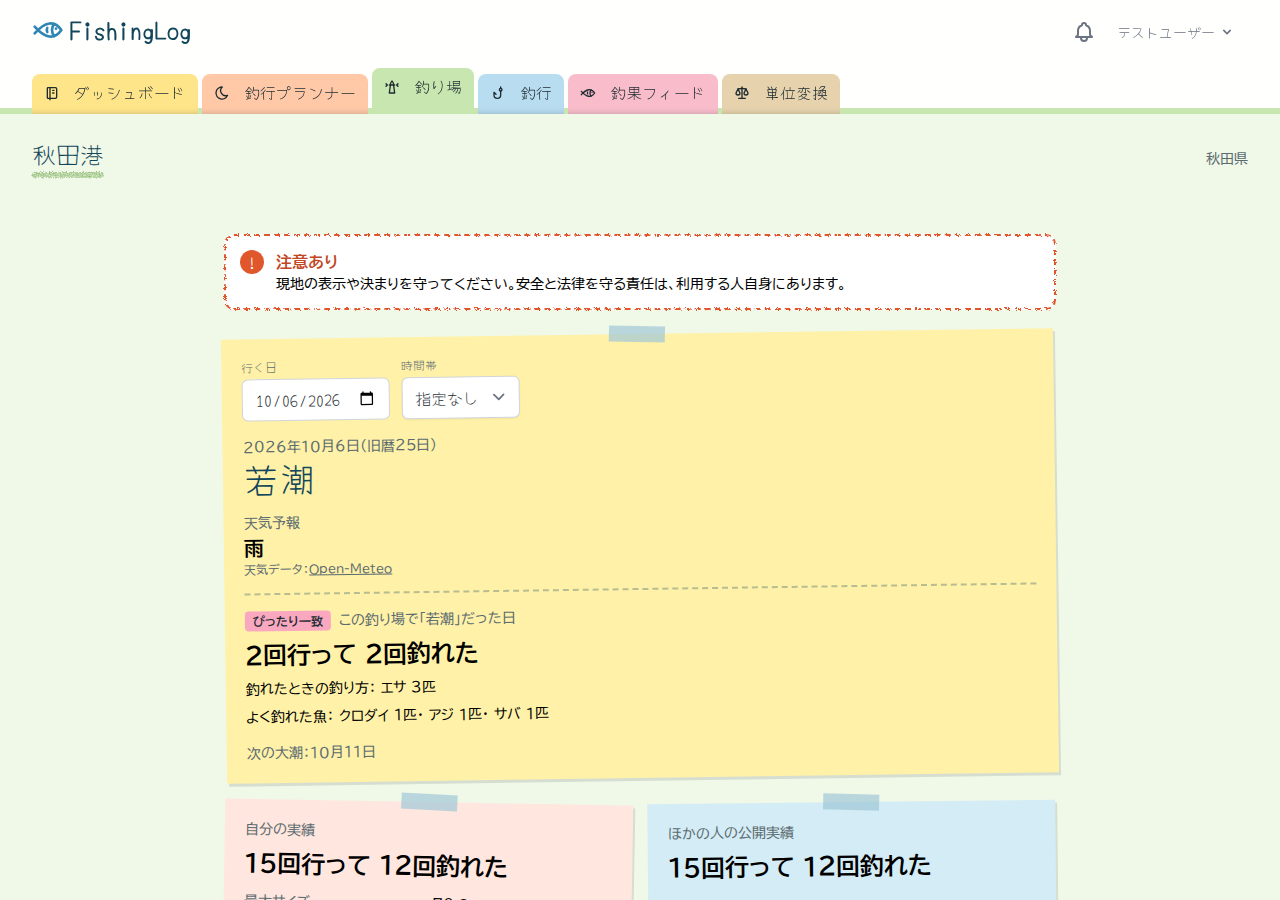
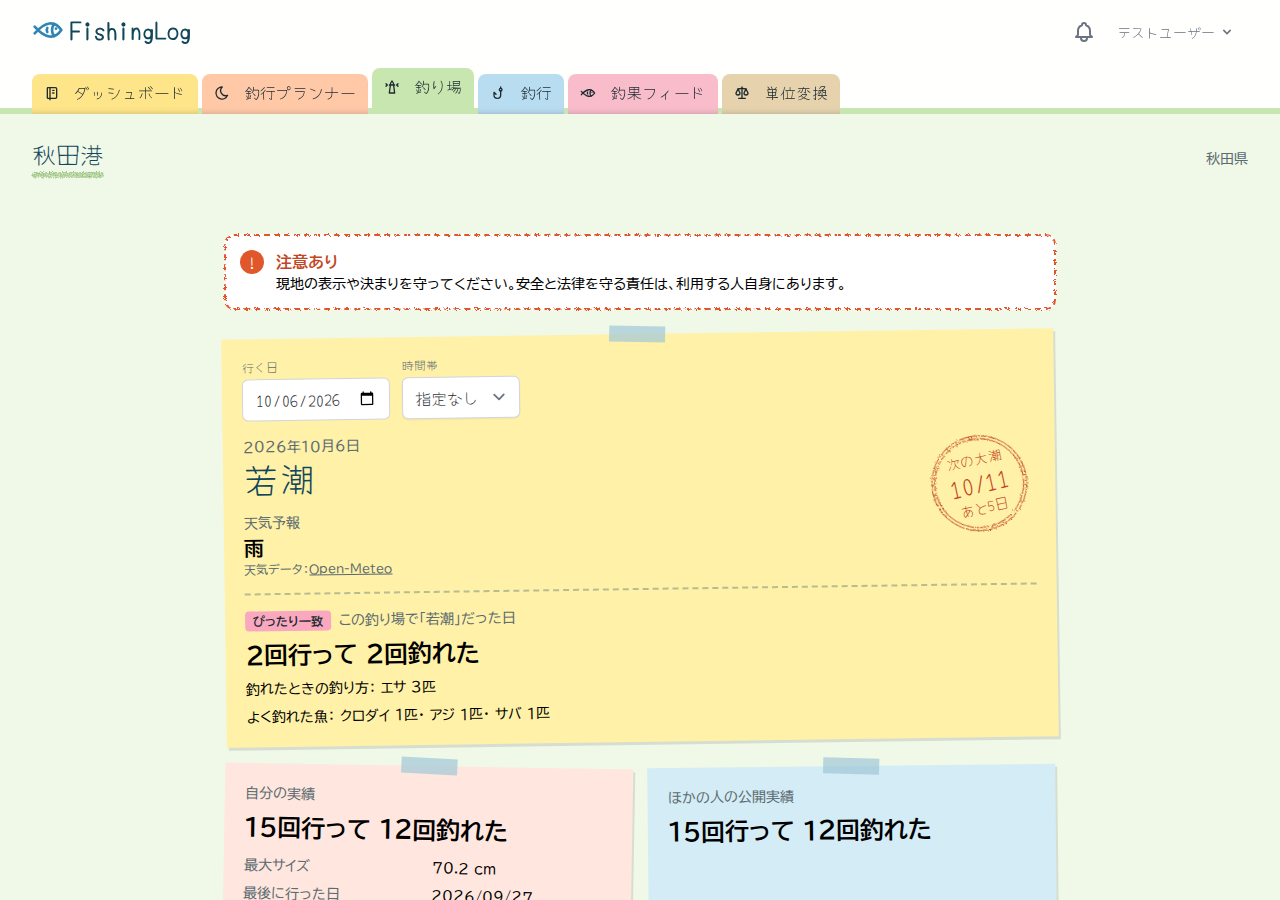
docs: 旧暦と次の大潮で決めたことを記録し、README の画像を撮り直す (#130)

diff --git a/CLAUDE.md b/CLAUDE.md
@@ -86,7 +86,7 @@
 
 ## 今どこまでできているか（2026-10-06）
 
-**フェーズ1・フェーズ2は完了。** フェーズ3は条件検索（FN-03、#86）・CSV 出力（FN-04、#88）・継続カウンタと気づきカード（FN-10、#90）が完了。報告と管理画面（NF-04、#92・#94）が完了。見た目も土台（#96）・カルテ（#98）・ダッシュボードとプランナー（#100）・残りの画面（#102）でひととおり完了。テストは 284 件すべて成功。README も書き直した（#104）。シーダーの釣り場を実在の港と湖にした（#106）。ナビをインデックス付箋にした（#108）。注意のしるしと1位のマーカーを直した（#110）。魚や釣り具のアイコンと落書きを入れた（#112）。README に画面の画像を入れた（#114）。使い方のページを作った（#116）。利用規約とプライバシーポリシーを書き直し、退会で写真も消すようにした（#118）。エラーページ・タブのアイコン・初期のテストの片付け（#120）。単位変換ツール（#122）。せまい画面の付箋とスマホのメニューの並び（#124）。README の画面の画像を撮り直し、単位変換を足した。README に「記録が少ないうちも使い続けられる工夫」の節を足した（#126）。提出前の総点検で見つけた抜けを直した：釣り場一覧の釣果数と並べ替え（`sort`＝name／last／catches、ログインした人だけ）、釣り場のメモはカルテで本人だけ（#128）。最後の Issue は #128（PR と次の番号は画面で確かめる）。
+**フェーズ1・フェーズ2は完了。** フェーズ3は条件検索（FN-03、#86）・CSV 出力（FN-04、#88）・継続カウンタと気づきカード（FN-10、#90）が完了。報告と管理画面（NF-04、#92・#94）が完了。見た目も土台（#96）・カルテ（#98）・ダッシュボードとプランナー（#100）・残りの画面（#102）でひととおり完了。テストは 285 件すべて成功。README も書き直した（#104）。シーダーの釣り場を実在の港と湖にした（#106）。ナビをインデックス付箋にした（#108）。注意のしるしと1位のマーカーを直した（#110）。魚や釣り具のアイコンと落書きを入れた（#112）。README に画面の画像を入れた（#114）。使い方のページを作った（#116）。利用規約とプライバシーポリシーを書き直し、退会で写真も消すようにした（#118）。エラーページ・タブのアイコン・初期のテストの片付け（#120）。単位変換ツール（#122）。せまい画面の付箋とスマホのメニューの並び（#124）。README の画面の画像を撮り直し、単位変換を足した。README に「記録が少ないうちも使い続けられる工夫」の節を足した（#126）。提出前の総点検で見つけた抜けを直した：釣り場一覧の釣果数と並べ替え（`sort`＝name／last／catches、ログインした人だけ）、釣り場のメモはカルテで本人だけ（#128）。プランナーとカルテから旧暦の表示を消し、カルテの次の大潮を付箋の右のスタンプにした（#130）。最後の Issue は #130（PR と次の番号は画面で確かめる）。
 
 ### フェーズ2でやったこと（決めたことは `docs/decisions.md`）
 

diff --git a/docs/decisions.md b/docs/decisions.md
@@ -204,3 +204,4 @@
 | 2026-10-06 | 釣り場一覧の釣果数と並べ替え | PG06：最後に行った日・釣行回数・釣果数を一覧表示し、最後に行った日順と釣果数順で並べ替え | 「自分の釣行 N 回・釣果 M 匹」と最後に行った日を出し、「名前順（初め）／最後に行った日順（行っていない釣り場は後ろ）／釣果数順」で並べ替えられるようにする。数えるのは自分の記録だけ。並べ替えはログインした人だけ（ゲストは名前順） | 総点検で、釣果数と並べ替えが抜けていたのが見つかったため。自分の行った釣り場やよく釣れる釣り場を、すぐ見つけられるようにするため。ゲストは自分の記録がないので、並べ替えても意味がないため |
 | 2026-10-06 | 釣り場のメモ（spots.notes）を見せる人 | テーブル定義：釣り場全体のメモ（だれに見せるかは記載なし） | カルテで、登録した本人にだけ「自分のメモ」として見せる。入力欄に「自分にだけ見えます。みんなに伝えたいことは現地情報のメモに」と書く | 本人だけが書けるのに、どこにも表示されていなかったため（総点検で見つけた）。釣行のメモも本人だけに見せているので、そろえるため。みんなに伝えたいことは、もうある現地情報のメモに書けるため |
 | 2026-10-06 | NF-06 ④ 条件検索のゲストのテスト | NF-06 ④：ゲストは釣行の詳細・条件検索・CSV にアクセスできないことをテストする | 詳細と CSV のテストはあるが、条件検索（釣行一覧 /trips）のテストは足さない | /trips は詳細・CSV と同じ「ログインが必要なグループ」（routes/web.php の auth ミドルウェア）に入っていて、同じしくみでゲストはログイン画面に送られる。そのしくみは詳細と CSV のテストで確かめているため |
+| 2026-10-06 | プランナーとカルテの旧暦の表示 | 記載なし（潮は旧暦から計算する、とだけ） | 「2026年10月6日（旧暦25日）」の「（旧暦○日）」を消し、日付と潮の名前だけにする。プランナーとカルテの判断ビューの両方。旧暦の計算（TideCalculator::lunarDay）は潮を決めるのに使うので残す。あわせて、カルテの「次の大潮」を付箋のいちばん下の小さい字から、付箋の右の丸いスタンプ（crayon-stamp）に移し、「あと N 日」を添える | 行き先を決めるのに使うのは潮の名前で、旧暦の日にちではないため。旧暦は月の満ち欠けからの近似で、本物のカレンダーと1日ずれることがあり、間違っていると思われるおそれがあるため。次の大潮は、付箋のいちばん下にあって見つけにくかったため（ユーザーが見本から丸いスタンプを選んだ） |

diff --git a/README.md b/README.md
@@ -224,7 +224,7 @@ cp .env.example .env
 sail artisan test
 ```
 
-- 284 件（公開範囲とアクセス制御を中心に、各機能の計算や入力チェックも）
+- 285 件（公開範囲とアクセス制御を中心に、各機能の計算や入力チェックも）
 - テストでは外の API に本当にはつながない（天気は偽の返事を使う）
 
 ## バックアップ
